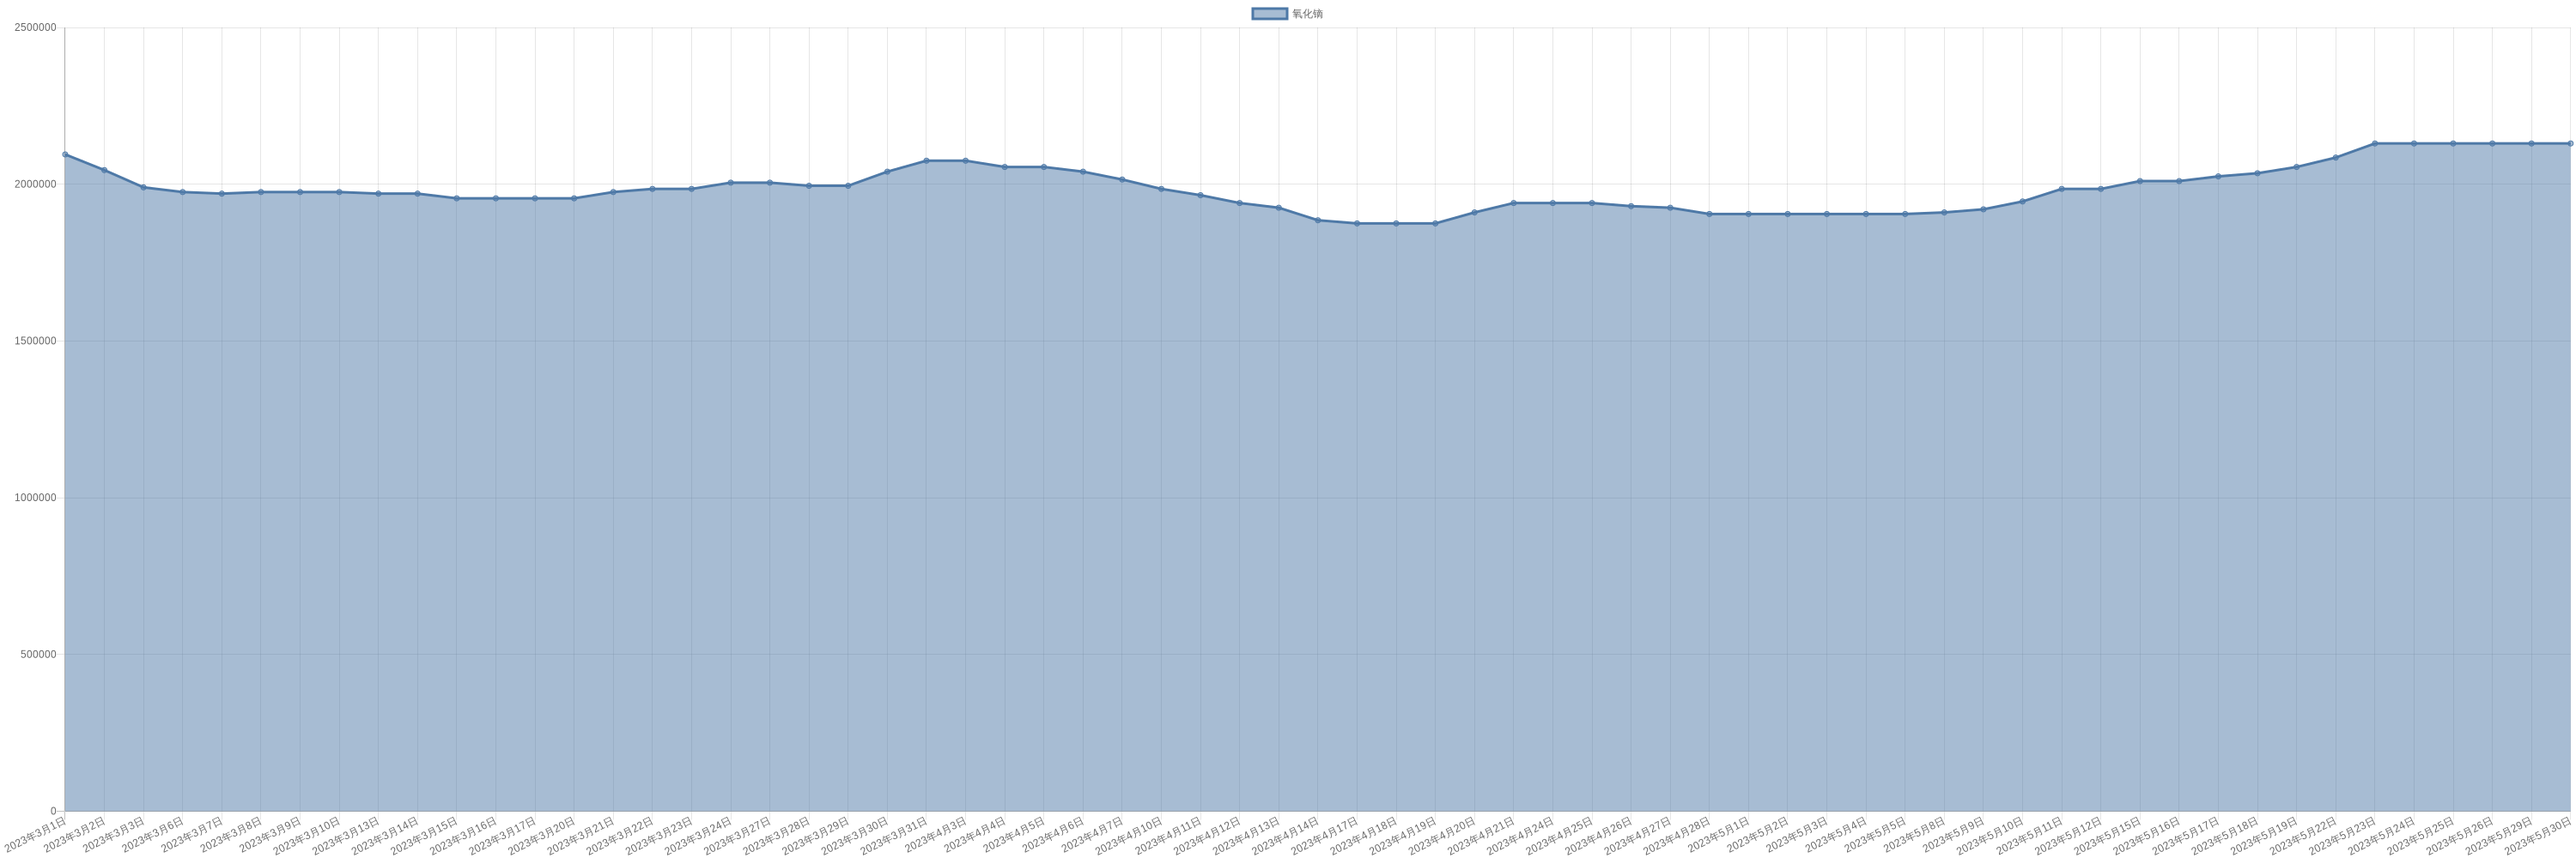
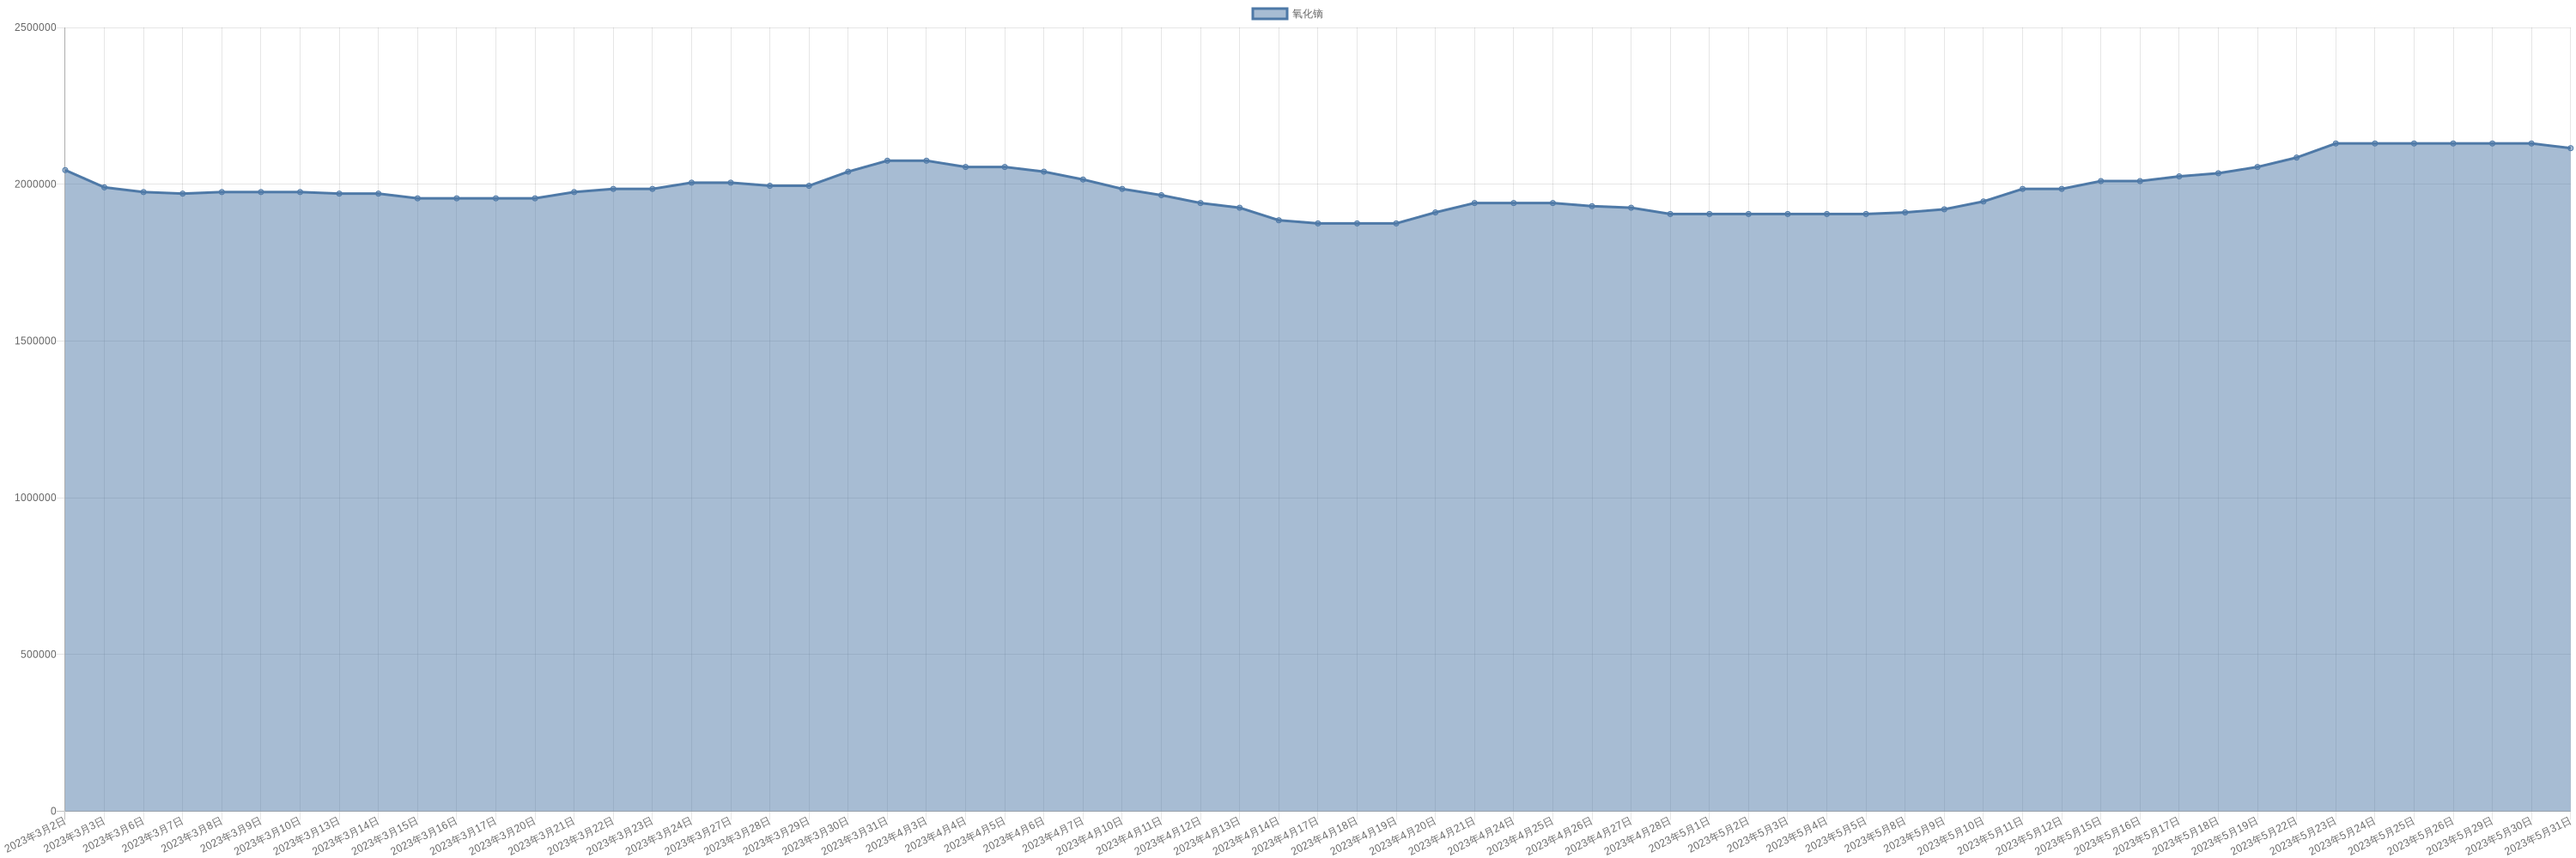
chore: sync commodity monitor

diff --git a/markdown/commodity/crudeOil.md b/markdown/commodity/crudeOil.md
@@ -2,6 +2,8 @@
 
 | 时间 | 价格 | 消息正文 |
 |:--:|:--:|:--:|
+|2023年5月31日WTI|69.46|5月31日WTI原油为69.46|
+|2023年5月31日Brent|73.71|5月31日Brent原油为73.71|
 |2023年5月30日Brent|77.1|5月30日Brent原油为77.10|
 |2023年5月30日WTI|72.67|5月30日WTI原油为72.67|
 |2023年5月29日Brent|76.98|5月29日Brent原油为76.98|

diff --git a/markdown/commodity/praseodymiumNeodymiumOxide.md b/markdown/commodity/praseodymiumNeodymiumOxide.md
@@ -8,6 +8,7 @@
 
 | 时间 | 价格 | 消息正文 |
 |:--:|:--:|:--:|
+|2023年5月31日|500000|5月31日镨钕氧化物为500000.00|
 |2023年5月30日|507500|5月30日镨钕氧化物为507500.00|
 |2023年5月29日|502500|5月29日镨钕氧化物为502500.00|
 |2023年5月26日|487500|5月26日镨钕氧化物为487500.00|

diff --git a/markdown/commodity/dyFeAlloy.md b/markdown/commodity/dyFeAlloy.md
@@ -8,6 +8,7 @@
 
 | 时间 | 价格 | 消息正文 |
 |:--:|:--:|:--:|
+|2023年5月31日|2070000|5月31日镝铁合金为2070000.00|
 |2023年5月30日|2080000|5月30日镝铁合金为2080000.00|
 |2023年5月29日|2080000|5月29日镝铁合金为2080000.00|
 |2023年5月26日|2080000|5月26日镝铁合金为2080000.00|

diff --git a/markdown/commodity/lithiumHydroxide.md b/markdown/commodity/lithiumHydroxide.md
@@ -8,6 +8,7 @@
 
 | 时间 | 价格 | 消息正文 |
 |:--:|:--:|:--:|
+|2023年5月31日|305000|5月31日氢氧化锂为305000.00|
 |2023年5月30日|305000|5月30日氢氧化锂为305000.00|
 |2023年5月29日|305000|5月29日氢氧化锂为305000.00|
 |2023年5月26日|305000|5月26日氢氧化锂为305000.00|

diff --git a/markdown/commodity/praseodymiumNeodymiumAlloy.md b/markdown/commodity/praseodymiumNeodymiumAlloy.md
@@ -8,6 +8,7 @@
 
 | 时间 | 价格 | 消息正文 |
 |:--:|:--:|:--:|
+|2023年5月31日|610000|5月31日镨钕合金为610000.00|
 |2023年5月30日|615000|5月30日镨钕合金为615000.00|
 |2023年5月29日|600000|5月29日镨钕合金为600000.00|
 |2023年5月26日|582500|5月26日镨钕合金为582500.00|

diff --git a/markdown/commodity/dysprosiumMetal.md b/markdown/commodity/dysprosiumMetal.md
@@ -8,6 +8,7 @@
 
 | 时间 | 价格 | 消息正文 |
 |:--:|:--:|:--:|
+|2023年5月31日|2680000|5月31日金属镝为2680000.00|
 |2023年5月30日|2680000|5月30日金属镝为2680000.00|
 |2023年5月29日|2680000|5月29日金属镝为2680000.00|
 |2023年5月26日|2680000|5月26日金属镝为2680000.00|

diff --git a/markdown/commodity/dysprosiumOxide.md b/markdown/commodity/dysprosiumOxide.md
@@ -8,6 +8,7 @@
 
 | 时间 | 价格 | 消息正文 |
 |:--:|:--:|:--:|
+|2023年5月31日|2115000|5月31日氧化镝为2115000.00|
 |2023年5月30日|2130000|5月30日氧化镝为2130000.00|
 |2023年5月29日|2130000|5月29日氧化镝为2130000.00|
 |2023年5月26日|2130000|5月26日氧化镝为2130000.00|

diff --git a/markdown/commodity/liquefiedNaturalGas.md b/markdown/commodity/liquefiedNaturalGas.md
@@ -8,6 +8,7 @@
 
 | 时间 | 价格 | 消息正文 |
 |:--:|:--:|:--:|
+|2023年5月31日|3760|5月31日液化天然气为3760.00|
 |2023年5月30日|3728|5月30日液化天然气为3728.00|
 |2023年5月29日|3820|5月29日液化天然气为3820.00|
 |2023年5月26日|3728|5月26日液化天然气为3728.00|

diff --git a/markdown/commodity/lithiumIronPhosphate.md b/markdown/commodity/lithiumIronPhosphate.md
@@ -8,6 +8,7 @@
 
 | 时间 | 价格 | 消息正文 |
 |:--:|:--:|:--:|
+|2023年5月31日|92000|5月31日磷酸铁锂为92000.00|
 |2023年5月30日|92000|5月30日磷酸铁锂为92000.00|
 |2023年5月29日|92000|5月29日磷酸铁锂为92000.00|
 |2023年5月26日|90000|5月26日磷酸铁锂为90000.00|

diff --git a/markdown/commodity/neodymium.md b/markdown/commodity/neodymium.md
@@ -8,6 +8,7 @@
 
 | 时间 | 价格 | 消息正文 |
 |:--:|:--:|:--:|
+|2023年5月31日|640000|5月31日金属钕为640000.00|
 |2023年5月30日|640000|5月30日金属钕为640000.00|
 |2023年5月29日|630000|5月29日金属钕为630000.00|
 |2023年5月26日|620000|5月26日金属钕为620000.00|

diff --git a/markdown/commodity/neodymiumOxide.md b/markdown/commodity/neodymiumOxide.md
@@ -8,6 +8,7 @@
 
 | 时间 | 价格 | 消息正文 |
 |:--:|:--:|:--:|
+|2023年5月31日|510000|5月31日氧化钕为510000.00|
 |2023年5月30日|520000|5月30日氧化钕为520000.00|
 |2023年5月29日|500000|5月29日氧化钕为500000.00|
 |2023年5月26日|487500|5月26日氧化钕为487500.00|

diff --git a/markdown/commodity/praseodymium.md b/markdown/commodity/praseodymium.md
@@ -8,6 +8,7 @@
 
 | 时间 | 价格 | 消息正文 |
 |:--:|:--:|:--:|
+|2023年5月31日|635000|5月31日金属镨为635000.00|
 |2023年5月30日|635000|5月30日金属镨为635000.00|
 |2023年5月29日|635000|5月29日金属镨为635000.00|
 |2023年5月26日|625000|5月26日金属镨为625000.00|
